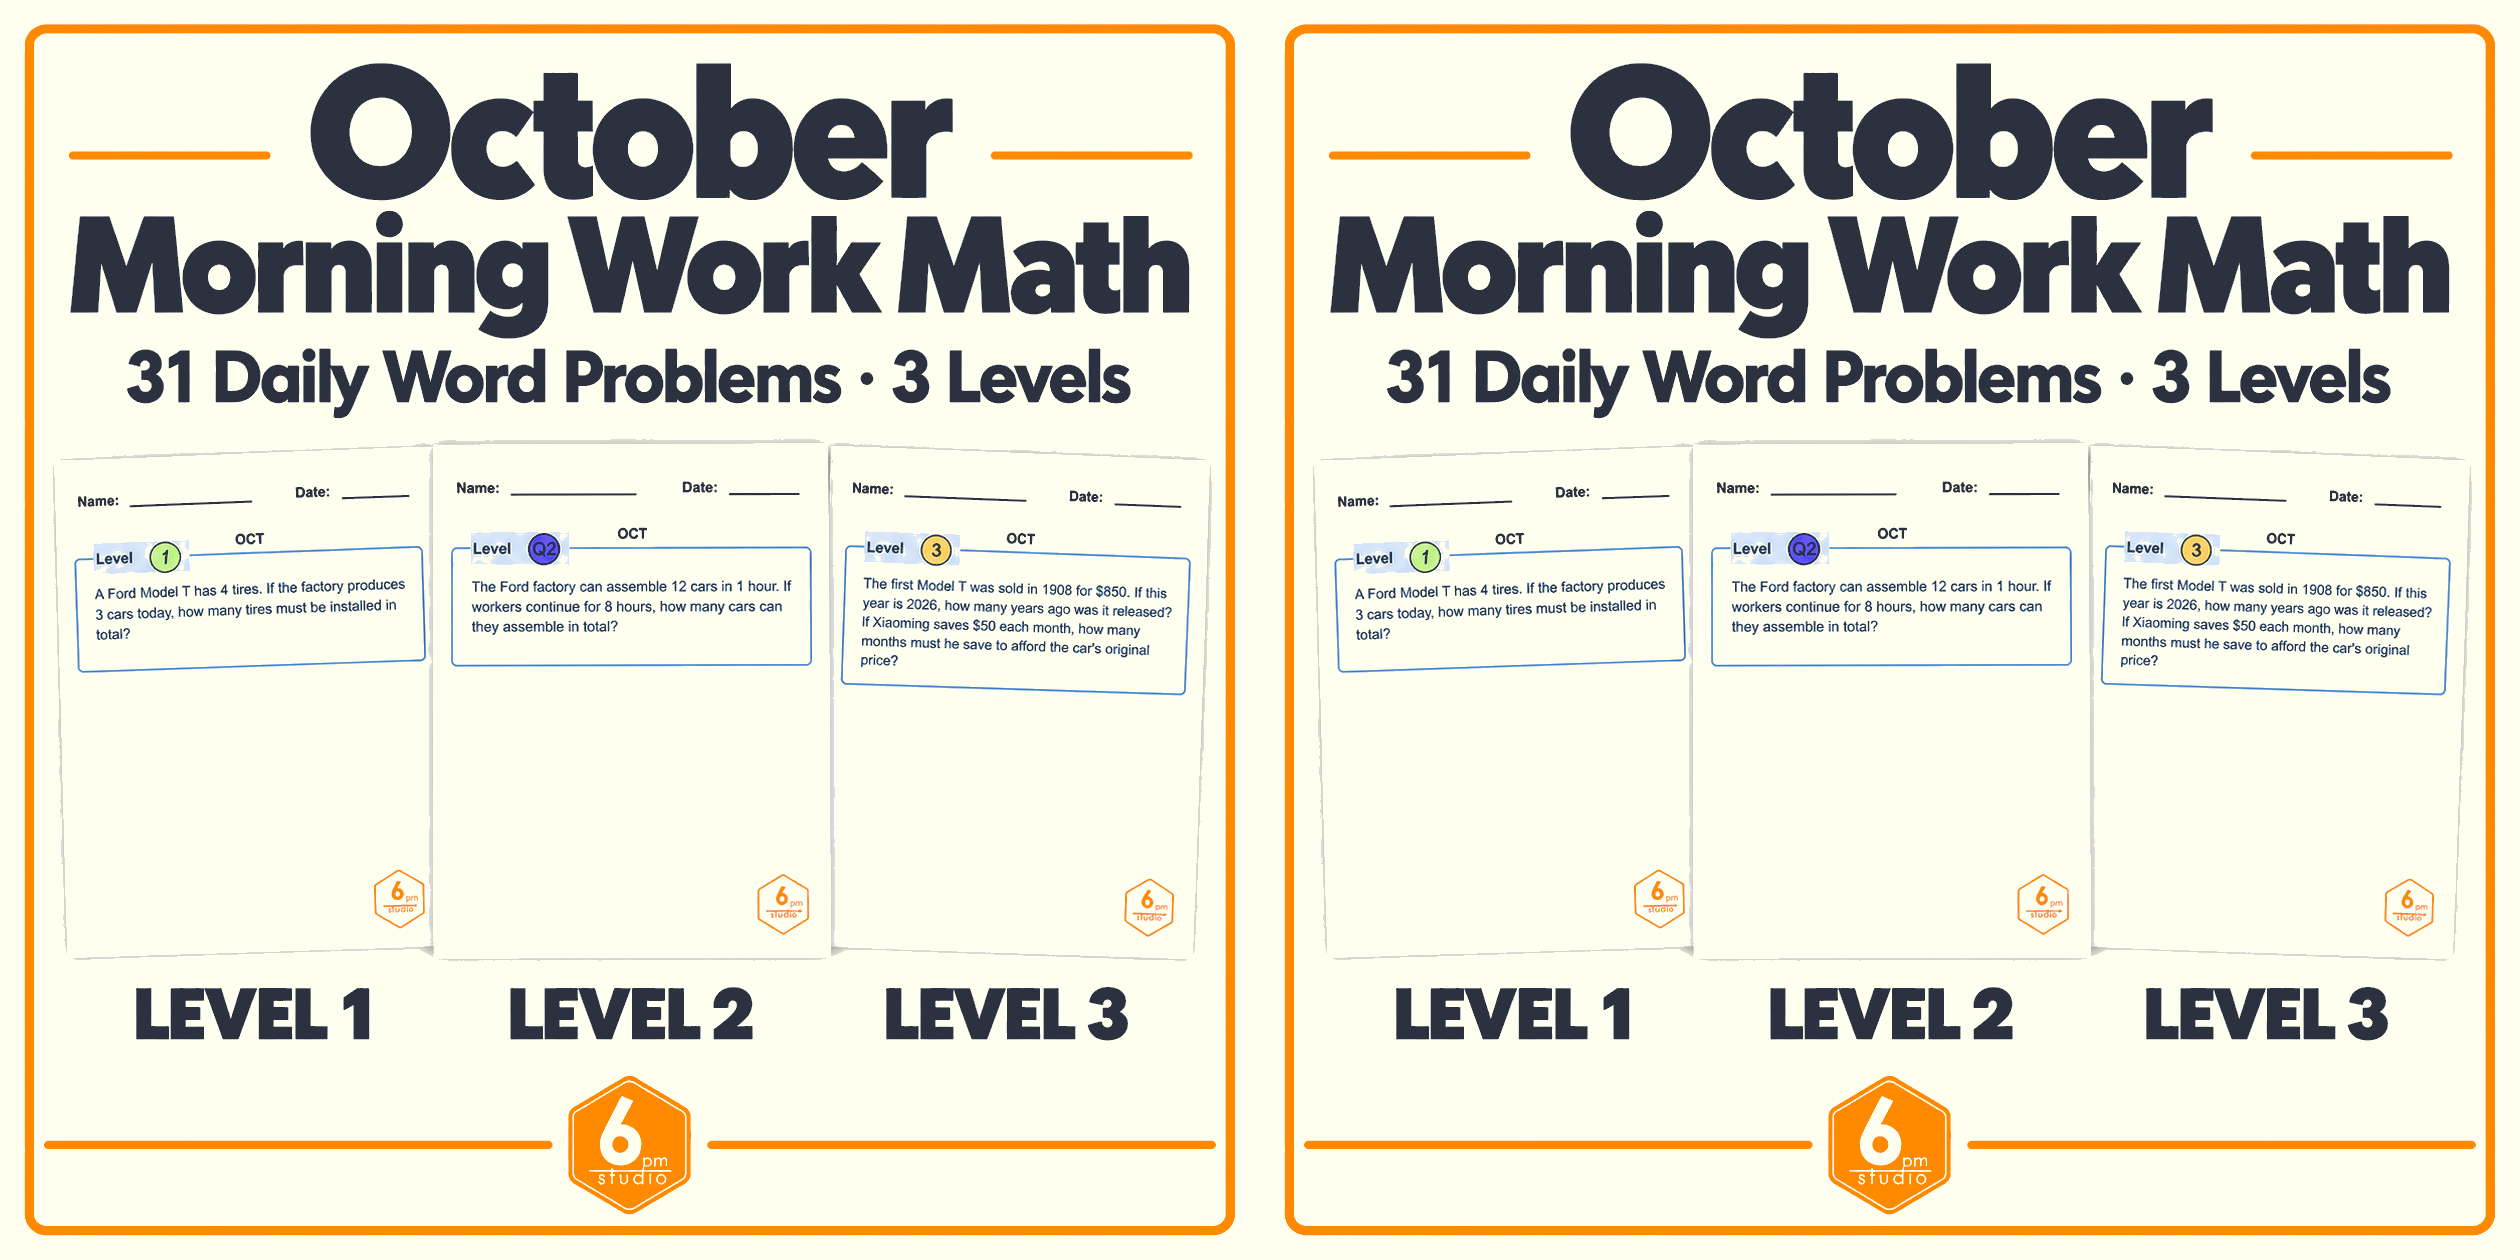
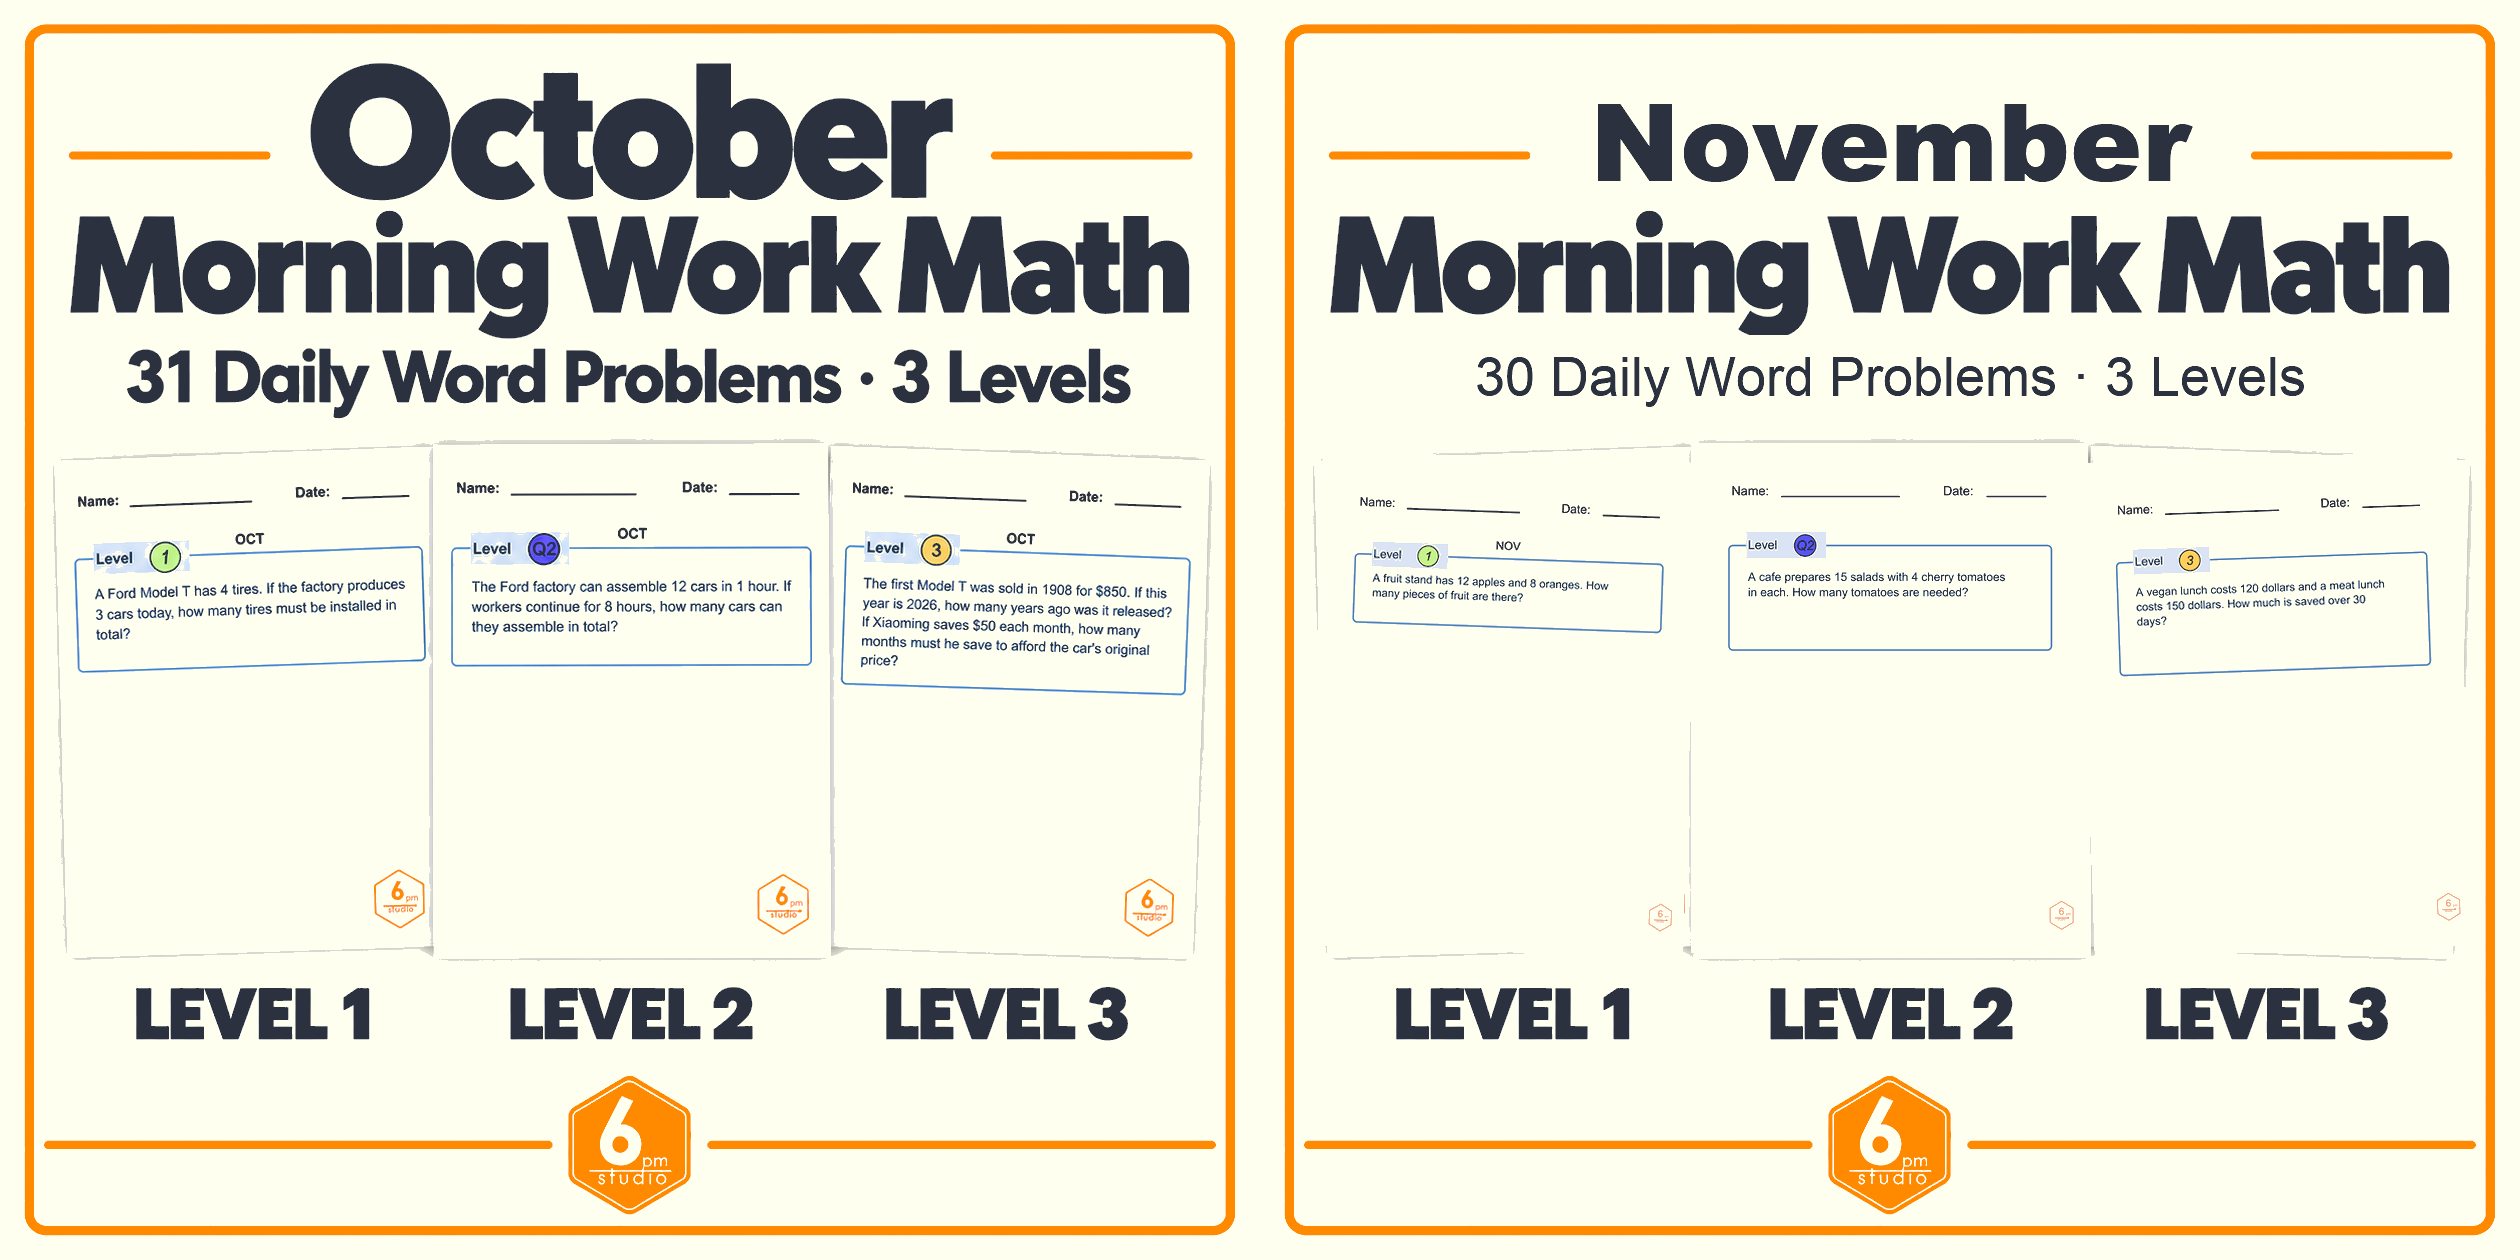
Fix November different-math thumbnail parity

diff --git a/scripts/generate_monthly_thumbnails.py b/scripts/generate_monthly_thumbnails.py
@@ -340,34 +340,35 @@ def compose_different_math(month, day_count, pages, out):
         # cards and day-count copy substituted by the manifest.
         Image.open(canonical).convert("RGB").resize((SIZE, SIZE), Image.Resampling.LANCZOS).save(out, "PNG", optimize=True)
         return
-    canvas = base_canvas()
+    if canonical.exists():
+        canvas = Image.open(canonical).convert("RGBA")
+        if canvas.size != (SIZE, SIZE):
+            canvas = canvas.resize((SIZE, SIZE), Image.Resampling.LANCZOS)
+    else:
+        canvas = base_canvas()
     draw = ImageDraw.Draw(canvas)
-    # Thumbnail 3 uses the compact “product feature” reference: a title-case
-    # month with short rules, one large product title, one subtitle, then
-    # three readable worksheet cards with subtle opposing tilts.
-    centered(draw, month.title(), 48, 126, 820)
-    draw.line((70, 154, 269, 154), fill=ORANGE, width=7)
-    draw.line((991, 154, 1190, 154), fill=ORANGE, width=7)
-    centered(draw, "Morning Work Math", 202, 108, 1180)
+    # Keep the October reference as the fixed visual system. Clear only the
+    # month and day-count text bands before drawing November copy; the title,
+    # rules, frame, labels, footer, and logo remain pixel-stable.
+    draw.rectangle((270, 45, 990, 205), fill=BG)
+    draw.rectangle((80, 335, 1180, 425), fill=BG)
+    centered(draw, month.title(), 62, 108, 820)
     centered(draw, f"{day_count} Daily Word Problems · 3 Levels", 347, 54, 1100, bold=False)
 
     cards = [
-        ("level1", 240, 697, 372, 510, -2.0),
-        ("level2", 630, 697, 392, 512, 0.0),
-        ("level3", 1028, 697, 372, 510, 2.0),
+        ("level1", 243, 704, 376, 495, -2.0),
+        ("level2", 629, 698, 396, 510, 0.0),
+        ("level3", 1015, 704, 379, 495, 2.0),
     ]
     for key, cx, cy, width, height, angle in cards:
-        worksheet = Image.new("RGBA", (width + 32, height + 32), (0, 0, 0, 0))
-        card(worksheet, pages[key], (16, 16, width, height), "", label_style="none")
+        worksheet = Image.new("RGBA", (width, height), (0, 0, 0, 0))
+        source = Image.open(pages[key]).convert("RGB")
+        fitted_image = ImageOps.contain(source, (width, height), method=Image.Resampling.LANCZOS)
+        paper = Image.new("RGBA", (width, height), "white")
+        paper.paste(fitted_image, ((width - fitted_image.width) // 2, (height - fitted_image.height) // 2))
+        worksheet.alpha_composite(paper)
         worksheet = worksheet.rotate(angle, resample=Image.Resampling.BICUBIC, expand=True)
         canvas.alpha_composite(worksheet, (cx - worksheet.width // 2, cy - worksheet.height // 2))
-        draw = ImageDraw.Draw(canvas)
-        label = key.replace("level", "LEVEL ")
-        draw.text((cx, 982), label, anchor="ma", fill=NAVY, font=fitted(label, width - 8, 64))
-    draw = ImageDraw.Draw(canvas)
-    draw.line((45, 1140, 548, 1140), fill=ORANGE, width=6)
-    draw.line((712, 1140, 1215, 1140), fill=ORANGE, width=6)
-    studio_logo(draw, 630, 1140, 138)
     canvas.convert("RGB").save(out, "PNG", optimize=True)
 
 
@@ -556,7 +557,7 @@ def main():
         "copyConcepts": {
             "cover": {"headline": manifest["product"]["month"].title(), "productTitle": "MORNING WORK MATH", "supportingText": [f"{day_count} DAILY WORD PROBLEMS"], "levelsBlock": "3 LEVELS with orange side lines", "doodle": "orange line-art pumpkin" if doodle_path is None else manifest["doodle"]["path"], "doodlePrompt": "recognizable pumpkin silhouette with five ribbed lobes, curved stem, outlined leaf, and flattened base; orange outline only; no fill or shading" if doodle_path is None else "month-specific approved transparent orange line-art doodle; fixed art box; no fill or shading"},
             "whats_included": {"headline": "WHAT’S INCLUDED", "sourceLayout": "story, level 1, level 2 / level 3, answer key", "headlineEmphasis": "three orange rays on each side", "labelStyle": "orange pills narrower than cards", "footer": "centered logo without divider lines", "parityFixture": "references /thumbnail-assets/thumbnail-2-reference.png", "failureLoop": "rerun prompt/compositor optimization until fixed-region visual QA passes"},
-            "different_math": {"headline": [manifest["product"]["month"].title(), "Morning Work Math"], "supportingText": f"{day_count} Daily Word Problems · 3 Levels", "sourceLayout": "three subtly tilted worksheet cards in one row", "headlineSideLines": "short orange horizontal rules around the month", "labelStyle": "large uppercase navy labels", "parityFixture": "references /thumbnail-assets/thumbnail-3-reference.png", "failureLoop": "rerun prompt/compositor optimization until fixed-region visual QA passes"},
+            "different_math": {"headline": [manifest["product"]["month"].title(), "Morning Work Math"], "supportingText": f"{day_count} Daily Word Problems · 3 Levels", "sourceLayout": "October reference frame with three fixed-geometry real worksheet replacements", "headlineSideLines": "short orange horizontal rules around the month", "labelStyle": "large uppercase navy labels", "parityFixture": "references /thumbnail-assets/thumbnail-3-reference.png", "failureLoop": "rerun prompt/compositor optimization until fixed-region pixel QA passes"},
             "daily_practice": {"headline": ["READY FOR", "DAILY PRACTICE"], "useCases": ["MORNING WORK", "BELL RINGERS", "HOMESCHOOL"], "headlineEmphasis": "three orange rays on each side", "useCaseSeparators": "vertical orange lines", "sourceLayout": "one centered borderless real worksheet preview with October-matched shadow and crop", "parityFixture": "references /thumbnail-assets/thumbnail-4-reference.png", "failureLoop": "rerun prompt/compositor optimization until fixed-region visual QA passes"},
             "landing_page": {"headline": [manifest["product"]["month"].title(), "Morning Work Math"], "supportingText": f"{day_count} Daily Word Problems · 3 Levels", "sourceLayout": "five subtly tilted worksheet cards in one row", "labels": ["READING PASSAGE", "LEVEL 1", "LEVEL 2", "LEVEL 3", "ANSWER KEY"], "parityFixture": "references /thumbnail-assets/thumbnail-5-reference.png", "failureLoop": "rerun prompt/compositor optimization until fixed-region visual QA passes"},
         },

diff --git a/scripts/validate_thumbnail3_visual_parity.py b/scripts/validate_thumbnail3_visual_parity.py
@@ -13,16 +13,24 @@ BG = np.array([254, 255, 239], dtype=np.uint8)
 NAVY = np.array([43, 49, 63], dtype=np.uint8)
 ORANGE = np.array([255, 138, 0], dtype=np.uint8)
 FIXED_REGIONS = {
-    "month_and_rules": (55, 55, 1205, 205),
     "headline": (75, 205, 1185, 330),
-    "subtitle": (120, 335, 1140, 420),
     "labels": (55, 965, 1205, 1070),
     "footer": (35, 1115, 1225, 1225),
+    "top_frame": (30, 30, 1230, 45),
+    "left_frame": (30, 30, 45, 1230),
+    "right_frame": (1215, 30, 1230, 1230),
+    "bottom_frame": (30, 1215, 1230, 1230),
+    "left_month_rule": (65, 145, 275, 165),
+    "right_month_rule": (985, 145, 1195, 165),
 }
 VARIABLE_CARDS = {
-    "level1": (45, 435, 430, 965),
-    "level2": (430, 435, 830, 965),
-    "level3": (830, 435, 1220, 965),
+    "level1": (45, 435, 435, 965),
+    "level2": (425, 425, 835, 965),
+    "level3": (825, 435, 1220, 965),
+}
+VARIABLE_COPY = {
+    "month": (270, 45, 990, 205),
+    "day_count": (80, 335, 1180, 425),
 }
 
 
@@ -80,11 +88,12 @@ def main():
     side.save(args.output_dir / "thumbnail-3-side-by-side.png")
     fixed = {name: compare(reference, generated, box) for name, box in FIXED_REGIONS.items()}
     variable = {name: compare(reference, generated, box) for name, box in VARIABLE_CARDS.items()}
+    variable_copy = {name: compare(reference, generated, box) for name, box in VARIABLE_COPY.items()}
     fixed_ssim = min(metric["ssim"] for metric in fixed.values())
     report = {
         "reference": str(args.reference), "generated": str(args.generated),
         "normalized": {"size": list(SIZE), "mode": "RGB"},
-        "fixedRegions": fixed, "variableCards": variable,
+        "fixedRegions": fixed, "variableCards": variable, "variableCopy": variable_copy,
         "visualAcceptance": {"fixedRegionMinSsim": fixed_ssim,
                               "fixedRegionThreshold": args.threshold,
                               "passed": fixed_ssim >= args.threshold},
